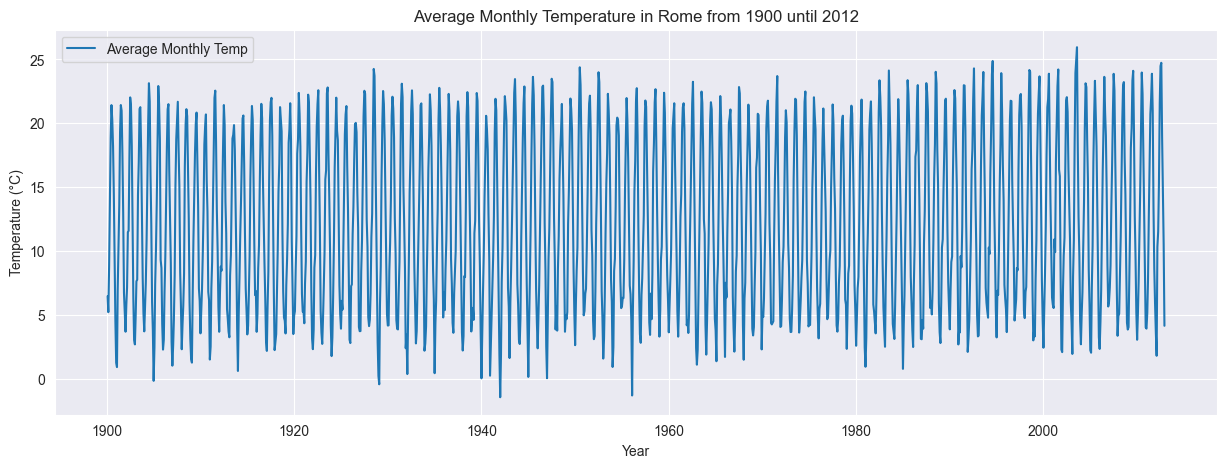
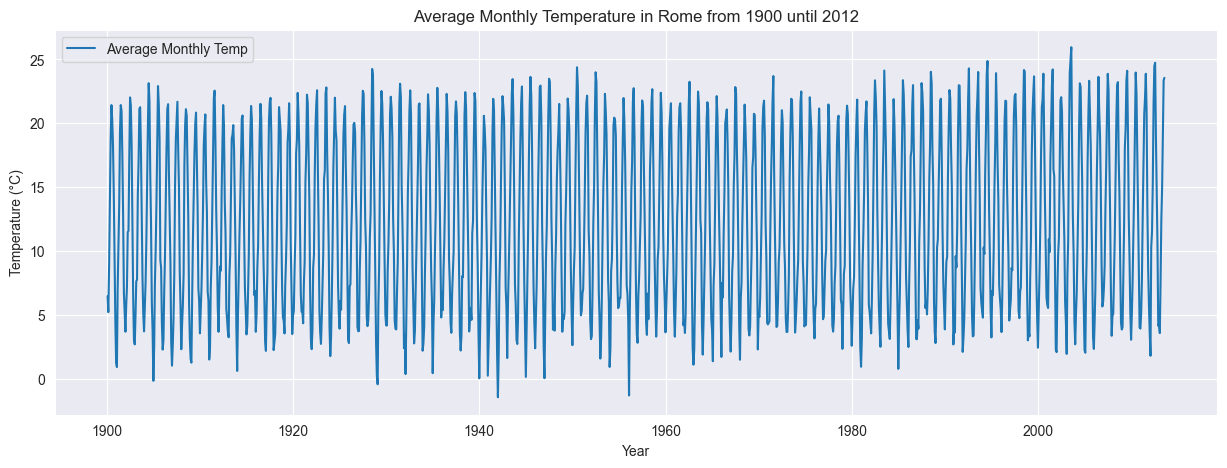
add some context

diff --git a/_posts/2025-01-01-temperature.md b/_posts/2025-01-01-temperature.md
@@ -7,6 +7,9 @@ header:
 excerpt: "Forecast the average monthly temperature in Rome using seasonal ARIMA methods."
 ---
 
+In this post we aim to forecast the average monthly temperature in the city of Rome. We will use a dataset that contains data on global land temperatures by city, part of the Berkeley Earth climate data. It includes historical temperature records and is useful for studying climate change and local temperature variations over time. Here we focus only on the city of Rome from 1900 to 2012, both inclusive. 
+
+
 ```python
 import matplotlib.pylab as plt
 import numpy as np
@@ -27,9 +30,9 @@ df['year'] = df['date'].dt.year
 df['month'] = df['date'].dt.strftime('%b')
 df.reset_index(drop=True, inplace=True)
 df.set_index('date', inplace=True)
-df = df.loc['1900':'2012']
+df = df.loc['1900':]
 df = df.asfreq('M', method='bfill')
-df.tail()
+df.head()
 ```
 
 
@@ -66,40 +69,42 @@ df.tail()
   </thead>
   <tbody>
     <tr>
-      <th>2012-07-31</th>
-      <td>24.731</td>
-      <td>2012</td>
-      <td>Aug</td>
+      <th>1900-01-31</th>
+      <td>6.462</td>
+      <td>1900</td>
+      <td>Feb</td>
     </tr>
     <tr>
-      <th>2012-08-31</th>
-      <td>18.922</td>
-      <td>2012</td>
-      <td>Sep</td>
+      <th>1900-02-28</th>
+      <td>5.215</td>
+      <td>1900</td>
+      <td>Mar</td>
     </tr>
     <tr>
-      <th>2012-09-30</th>
-      <td>14.501</td>
-      <td>2012</td>
-      <td>Oct</td>
+      <th>1900-03-31</th>
+      <td>8.887</td>
+      <td>1900</td>
+      <td>Apr</td>
     </tr>
     <tr>
-      <th>2012-10-31</th>
-      <td>10.528</td>
-      <td>2012</td>
-      <td>Nov</td>
+      <th>1900-04-30</th>
+      <td>14.049</td>
+      <td>1900</td>
+      <td>May</td>
     </tr>
     <tr>
-      <th>2012-11-30</th>
-      <td>4.150</td>
-      <td>2012</td>
-      <td>Dec</td>
+      <th>1900-05-31</th>
+      <td>18.884</td>
+      <td>1900</td>
+      <td>Jun</td>
     </tr>
   </tbody>
 </table>
 </div>
 
 
+
+Plotting all the data over times shows an oscillating behavior, as expected due to the seasonality of the temperature. This graph is too cluttered to deliver any information.
 
 
 ```python
@@ -112,17 +117,12 @@ plt.legend();
 ```
 
 
-
-
-    <matplotlib.legend.Legend at 0x16713e210>
-
-
-
-
     
 ![png](/assets/images/temperature/temperature-1.png)
     
 
+
+More explicative is a plot over the months. Here we can clearly see the change in temperature from the coldest months in winder, with averages generally around 5°C, to the hottest months, with averages in between 20°C and 25°C. On each month the data is distributed in a 5°C spread.
 
 
 ```python
@@ -139,6 +139,8 @@ ax.set_ylabel('Temperature (°C)');
 ![png](/assets/images/temperature/temperature-2.png)
     
 
+
+To identify a possible trend we use moving averaged over ten years. This suggests an increase in the monthly temperatures of about 2°C over the last one hundred years.
 
 
 ```python
@@ -158,6 +160,8 @@ plt.legend();
 ![png](/assets/images/temperature/temperature-3.png)
     
 
+
+It is time now to start using more powerful tools. We start from the [seasonal-trend-noise](https://en.wikipedia.org/wiki/Decomposition_of_time_series) decomposition, also called STL decomposition, asimplemented in the [statsmodels](https://www.statsmodels.org/stable/index.html) package. The seasonal part is quite important here and cannot be avoided, while the trend is what we want to find — can we see the effect of global warming from this data or not?
 
 
 ```python
@@ -182,6 +186,8 @@ fig.tight_layout()
     
 
 
+We will use a seasonal autoregressive integrated moving average, or [SARIMA](https://en.wikipedia.org/wiki/Autoregressive_integrated_moving_average) model, which is suitable for this kind of time series. Intuitively a frequency of 12 makes sense, where by frequency we mean the number of observations per seasonal cycle. As seen below, the original series is not stationary as quantified by the [augmented Dickey-Fuller test](https://en.wikipedia.org/wiki/Augmented_Dickey%E2%80%93Fuller_test), while the first differences are. Those are the parameters that we will use in the following.
+
 
 ```python
 from statsmodels.tsa.stattools import adfuller
@@ -197,6 +203,8 @@ print(f'First-order differenced data: ADF statistics: {res[0]}, p-value: {res[1]
     First-order differenced data: ADF statistics: -16.35212390756837, p-value: 2.925519649193536e-29
     First-order differenced data: ADF statistics: -25.706176135107768, p-value: 0.0
 
+
+We still have four parameters to tune: the order of the autoregressive process $p$, the lag $q$ of the moving average process, and the $P$ and $Q$ seasonal counterparts. To select the optimal values, we fit several models and select the one with the best [Akaike information criterion](https://en.wikipedia.org/wiki/Akaike_information_criterion), or AIC. We also compute the Bayesian information criterion, without using it.
 
 
 ```python
@@ -233,6 +241,8 @@ def optimize_SARIMAX(endog, exog, orders, d, D, s, trend):
     return results
 ```
 
+The selection involves the definition and fit of several models, one for each value of $p, q, P$ and $Q$ in $\{0, 1, 2, 3\}$. The model is fitted using the training dataset, while the test dataset, composed of the last ten years, is left aside for the final assessments. This analysis is quite long, lasting well above 30 minutes.
+
 
 ```python
 df_train = df.y[:-120]
@@ -268,11 +278,6 @@ print(f"Selected p={p}, q={q}, P={P}, Q={Q}")
 
     Selected p=1, q=1, P=3, Q=2
 
-
-
-```python
-
-```
 
 
 ```python
@@ -364,28 +369,6 @@ WINDOW = 12
 last_season = rolling_forecast(df, TRAIN_LEN, HORIZON, WINDOW, 'last_season')
 sarima = rolling_forecast(df, TRAIN_LEN, HORIZON, WINDOW, 'SARIMA')
 ```
-
-    /Users/marzio/envs/base/lib/python3.12/site-packages/statsmodels/base/model.py:607: ConvergenceWarning: Maximum Likelihood optimization failed to converge. Check mle_retvals
-      warnings.warn("Maximum Likelihood optimization failed to "
-    /Users/marzio/envs/base/lib/python3.12/site-packages/statsmodels/base/model.py:607: ConvergenceWarning: Maximum Likelihood optimization failed to converge. Check mle_retvals
-      warnings.warn("Maximum Likelihood optimization failed to "
-    /Users/marzio/envs/base/lib/python3.12/site-packages/statsmodels/base/model.py:607: ConvergenceWarning: Maximum Likelihood optimization failed to converge. Check mle_retvals
-      warnings.warn("Maximum Likelihood optimization failed to "
-    /Users/marzio/envs/base/lib/python3.12/site-packages/statsmodels/base/model.py:607: ConvergenceWarning: Maximum Likelihood optimization failed to converge. Check mle_retvals
-      warnings.warn("Maximum Likelihood optimization failed to "
-    /Users/marzio/envs/base/lib/python3.12/site-packages/statsmodels/base/model.py:607: ConvergenceWarning: Maximum Likelihood optimization failed to converge. Check mle_retvals
-      warnings.warn("Maximum Likelihood optimization failed to "
-    /Users/marzio/envs/base/lib/python3.12/site-packages/statsmodels/base/model.py:607: ConvergenceWarning: Maximum Likelihood optimization failed to converge. Check mle_retvals
-      warnings.warn("Maximum Likelihood optimization failed to "
-    /Users/marzio/envs/base/lib/python3.12/site-packages/statsmodels/base/model.py:607: ConvergenceWarning: Maximum Likelihood optimization failed to converge. Check mle_retvals
-      warnings.warn("Maximum Likelihood optimization failed to "
-    /Users/marzio/envs/base/lib/python3.12/site-packages/statsmodels/base/model.py:607: ConvergenceWarning: Maximum Likelihood optimization failed to converge. Check mle_retvals
-      warnings.warn("Maximum Likelihood optimization failed to "
-    /Users/marzio/envs/base/lib/python3.12/site-packages/statsmodels/base/model.py:607: ConvergenceWarning: Maximum Likelihood optimization failed to converge. Check mle_retvals
-      warnings.warn("Maximum Likelihood optimization failed to "
-    /Users/marzio/envs/base/lib/python3.12/site-packages/statsmodels/base/model.py:607: ConvergenceWarning: Maximum Likelihood optimization failed to converge. Check mle_retvals
-      warnings.warn("Maximum Likelihood optimization failed to "
-
 
 
 ```python
